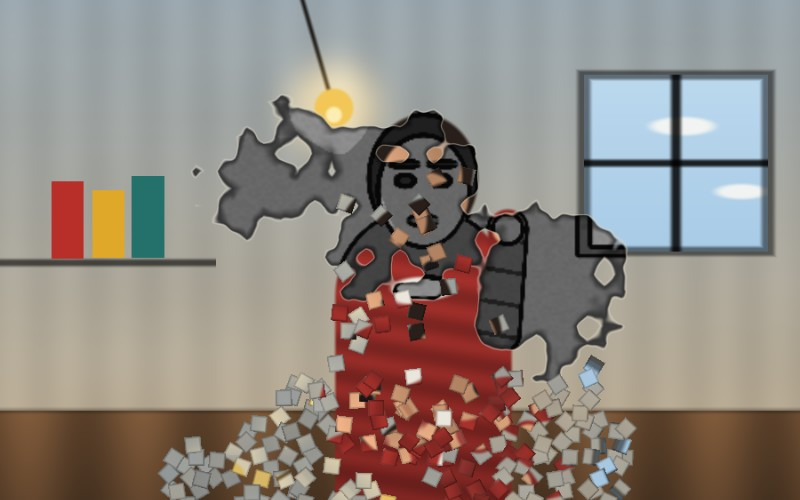
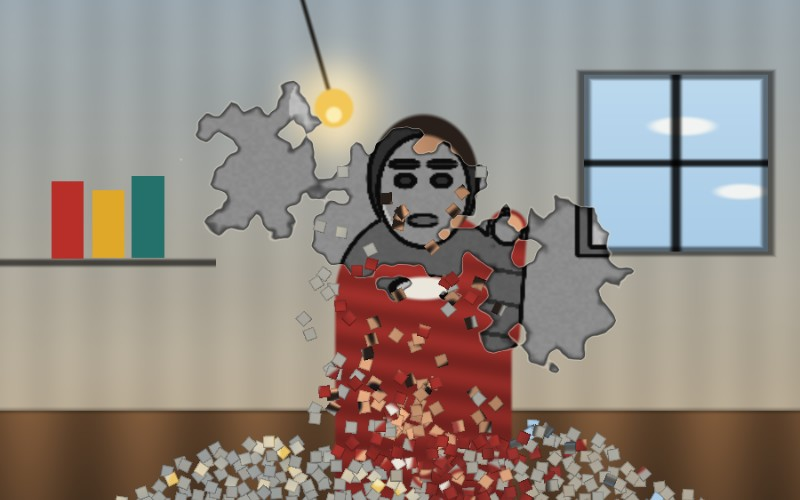
偽りの表面: フィードバック修正4件をmainに再適用 (#123)
1. ブロックサイズ既定を縮小 — グリッド列マッピングを 22〜68 列から
   46〜82 列に再設計。既定 block=0.5 で 64 列(旧 block=0.05 相当)
2. 横方向への崩れ — 安息角を 61°→35° に下げ毎ステップ双方向2パス化、
   着地時の斜面スライド(落差0.9超で低い側へ、決定的乱数・最大8回)を
   追加。塔状の積み上がりが裾野の広がる低い山になり裏世界の遮蔽が減る
3. 宙吊りバグ修正 — 風化の漸進フェーズで下層の支えが縮んでも
   スリープ済みボディが再落下しなかった。毎ステップの resettle
   チェック(支持高との隙間 0.35 ブロック超でウェイク+再落下)を実装
4. 裏世界の既定を明るく — DEFAULTS.depth 0.6→0.3(明るい線画。
   プリセット「崩れ続ける夜」の意図的な暗さは維持)

verify_static 既知1件のみ / verify_runtime 全11チェックpass(オーケスト
レータ再実行で確認)。サムネイルも修正後の画に差し替え。

Claude-Session: https://claude.ai/code/session_01DTJPjJypbfpFcWh88bfm1t

Changed region(s): [[0.125, 0.15, 0.875, 1.0]]

diff --git a/fable5_itsuwari-hyomen.html b/fable5_itsuwari-hyomen.html
@@ -33,20 +33,22 @@
     video / fakeScene ─► [P0 scene] cover-fit+mirror      sceneT  RGBA8 長辺≤1024
     sceneT ───────────► [P1 bw   ] sobel+無彩ポスタライズ  bwT     RGBA8 長辺≤512
     sceneT ─(剥離時)──► [P2 snap ] copyTexSubImage2D      snapT×3 RGBA8 sceneT同寸
-    [CPU mask] グリッド(基準 47×30)剥離/伝播/修復 → R8 小テクスチャへ一方向転送
-    [CPU phys] 剥離セル→剛体ボディ(≤1600)。列ハイトマップ堆積+スリープ+寿命
+    [CPU mask] グリッド(基準 64×40)剥離/伝播/修復 → R8 小テクスチャへ一方向転送
+    [CPU phys] 剥離セル→剛体ボディ(≤1600)。列ハイトマップ堆積(安息角緩和+
+               斜面スライド+支え喪失時の再落下)+スリープ+寿命
     [P3 comp ] bwT 基層+マスクで無傷領域だけ sceneT。穴の縁に厚みの影と欠けの縁
     [P4 block] instanced quads(snapT 世代参照+風化の退色)→ canvas
 
-  スライダー(写真らしさ ↔ 様式の強さ):
-    block   ブロックの大きさ — グリッドセルの辺長(小=細かい破片/大=大きな板)
-    burst   崩れの規模 — クリック起点の初期剥離半径
-    spread  追い崩れ — 支持喪失伝播の確率と持続(0=起点のみ/1=広く連鎖)
-    tumble  破片の暴れ — 剥離時の初速・角速度・反発係数
-    heal    修復の速さ — 剥離マスクの回復時定数(0=ほぼ直らない)
-    weather 破片の風化 — 堆積ブロックの退色・消滅までの寿命
-    depth   裏世界の暗さ — 白黒世界の沈み(明暗レンジの圧縮と黒レベル)
-    edge    輪郭の感度 — sobel 輪郭のしきい値と線の太さ
+  スライダー(写真らしさ ↔ 様式の強さ。カッコ内は既定値):
+    block   ブロックの大きさ(0.50)— グリッドセルの辺長(小=細かい破片/大=大きな板。
+            既定は細かめ=画面幅の約 1/64。上限側が旧既定相当の大きな板)
+    burst   崩れの規模(0.50)— クリック起点の初期剥離半径
+    spread  追い崩れ(0.55)— 支持喪失伝播の確率と持続(0=起点のみ/1=広く連鎖)
+    tumble  破片の暴れ(0.50)— 剥離時の初速・角速度・反発係数
+    heal    修復の速さ(0.35)— 剥離マスクの回復時定数(0=ほぼ直らない)
+    weather 破片の風化(0.50)— 堆積ブロックの退色・消滅までの寿命
+    depth   裏世界の暗さ(0.30)— 白黒世界の沈み(既定は明るめの線画。上げると夜へ)
+    edge    輪郭の感度(0.50)— sobel 輪郭のしきい値と線の太さ
     プリセット: 壁画の剥落(標準)/ 検知の世界 / 崩れ続ける夜
 
   実行方法:
@@ -442,13 +444,13 @@
         })();
 
         const DEFAULTS = {
-          block: 0.45,
+          block: 0.5,
           burst: 0.5,
           spread: 0.55,
           tumble: 0.5,
           heal: 0.35,
           weather: 0.5,
-          depth: 0.6,
+          depth: 0.3,
           edge: 0.5,
         };
 
@@ -458,7 +460,7 @@
           kenchi: {
             label: "検知の世界",
             vals: {
-              block: 0.45,
+              block: 0.5,
               burst: 0.5,
               spread: 0.45,
               tumble: 0.5,
@@ -471,7 +473,7 @@
           yoru: {
             label: "崩れ続ける夜",
             vals: {
-              block: 0.5,
+              block: 0.6,
               burst: 0.6,
               spread: 0.7,
               tumble: 0.55,
@@ -1394,7 +1396,7 @@
         function rebuildGrid() {
           const W = canvas.width;
           const H = canvas.height;
-          let gw = Math.round(68 - state.block * 46); // 68 (fine) .. 22 (slabs)
+          let gw = Math.round(82 - state.block * 36); // 82 (fine) .. 46 (slabs)
           gw = Math.max(12, Math.min(96, gw));
           let cw = W / gw;
           let gh = Math.max(6, Math.round(H / cw));
@@ -1636,6 +1638,7 @@
             gen: 0,
             asleep: false,
             bounces: 0,
+            slides: 0,
             weather: 0,
             wRate: 0,
             c0: -1,
@@ -1656,6 +1659,33 @@
           for (let bi = bodies.length - 1; bi >= 0; bi--) {
             const b = bodies[bi];
             if (b.asleep) {
+              // resettle: if the pile under this block has sunk (weathering
+              // shrink of blocks below, relaxation spreading the pile), the
+              // block would hover in mid-air — wake it so it falls again.
+              // Own contribution is excluded; blocks stacked above keep it
+              // counted as "support", so piles unstack top-down over a few
+              // steps instead of popping all at once.
+              if (b.c0 >= 0) {
+                let support = 0;
+                for (let c = b.c0; c <= b.c1; c++) {
+                  const hh = colH[c] - b.hLeft;
+                  if (hh > support) support = hh;
+                }
+                const he2 =
+                  b.size *
+                  0.5 *
+                  (Math.abs(Math.cos(b.ang)) + Math.abs(Math.sin(b.ang)));
+                const gap = H - Math.max(0, support) - (b.y + he2);
+                if (gap > b.size * 0.35) {
+                  subtractContrib(b, b.hLeft);
+                  b.hLeft = 0;
+                  b.c0 = -1;
+                  b.asleep = false;
+                  b.bounces = 2; // settle directly; weathering state kept
+                  b.slides = Math.max(0, b.slides - 2);
+                  continue;
+                }
+              }
               b.weather += dt * b.wRate;
               if (b.weather > 0.62 && b.hLeft > 0) {
                 const targetLeft =
@@ -1692,11 +1722,31 @@
             if (b.y + he >= floorY && b.vy > 0) {
               b.y = floorY - he;
               const rest = 0.1 + 0.3 * state.tumble;
+              // local slope: does the pile drop off just beyond this block?
+              const cl = Math.max(0, c0 - 2);
+              const cr = Math.min(HCOLS - 1, c1 + 2);
+              const dropL = ground - colH[cl];
+              const dropR = ground - colH[cr];
+              const drop = Math.max(dropL, dropR);
               if (b.vy > 0.28 * H && b.bounces < 2) {
                 b.vy = -b.vy * rest;
                 b.vx *= 0.55;
                 b.angv *= 0.5;
                 b.bounces++;
+              } else if (drop > b.size * 0.9 && b.slides < 8) {
+                // steep top: roll toward the lower flank instead of stacking
+                // (natural angle of repose — the pile spreads sideways)
+                const dir = dropL > dropR ? -1 : 1;
+                const r = cellHash(
+                  Math.round(b.x + b.slides * 37),
+                  Math.round(b.y),
+                  91,
+                );
+                const sc2 = H / 750;
+                b.vx = dir * (60 + 120 * r) * sc2;
+                b.vy = -(30 + 50 * r) * sc2;
+                b.angv = dir * (2.0 + 3.0 * r);
+                b.slides++;
               } else {
                 b.asleep = true;
                 b.vx = 0;
@@ -1722,21 +1772,27 @@
               }
             }
           }
-          // angle-of-repose relaxation (CRAFT §E2 — no needle towers)
-          const rm = Math.min(cellW, cellH) * 0.9;
-          const k = Math.min(1, dt * 5);
-          for (let c = 0; c < HCOLS - 1; c++) {
-            const d = colH[c] - colH[c + 1];
-            if (d > rm) {
-              const t = (d - rm) * 0.5 * k;
-              colH[c] -= t;
-              colH[c + 1] += t;
-              heightDirty = true;
-            } else if (d < -rm) {
-              const t = (-d - rm) * 0.5 * k;
-              colH[c] += t;
-              colH[c + 1] -= t;
-              heightDirty = true;
+          // angle-of-repose relaxation (CRAFT §E2 — no needle towers).
+          // rm/colW ≈ 0.7 gives a natural ~35° resting slope; two alternating
+          // sweeps per step let steep piles crumble sideways quickly.
+          const rm = Math.min(cellW, cellH) * 0.35;
+          const k = Math.min(1, dt * 10);
+          for (let pass = 0; pass < 2; pass++) {
+            const fwd = pass === 0;
+            for (let s = 0; s < HCOLS - 1; s++) {
+              const c = fwd ? s : HCOLS - 2 - s;
+              const d = colH[c] - colH[c + 1];
+              if (d > rm) {
+                const t = (d - rm) * 0.5 * k;
+                colH[c] -= t;
+                colH[c + 1] += t;
+                heightDirty = true;
+              } else if (d < -rm) {
+                const t = (-d - rm) * 0.5 * k;
+                colH[c] += t;
+                colH[c + 1] -= t;
+                heightDirty = true;
+              }
             }
           }
         }
